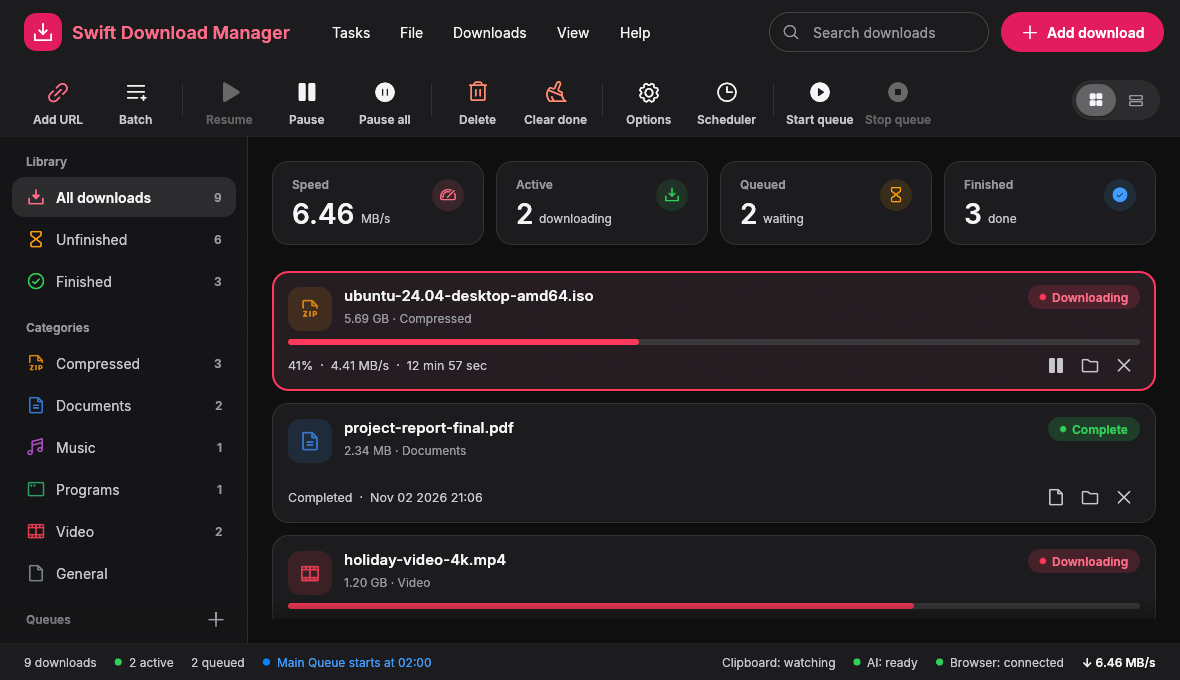
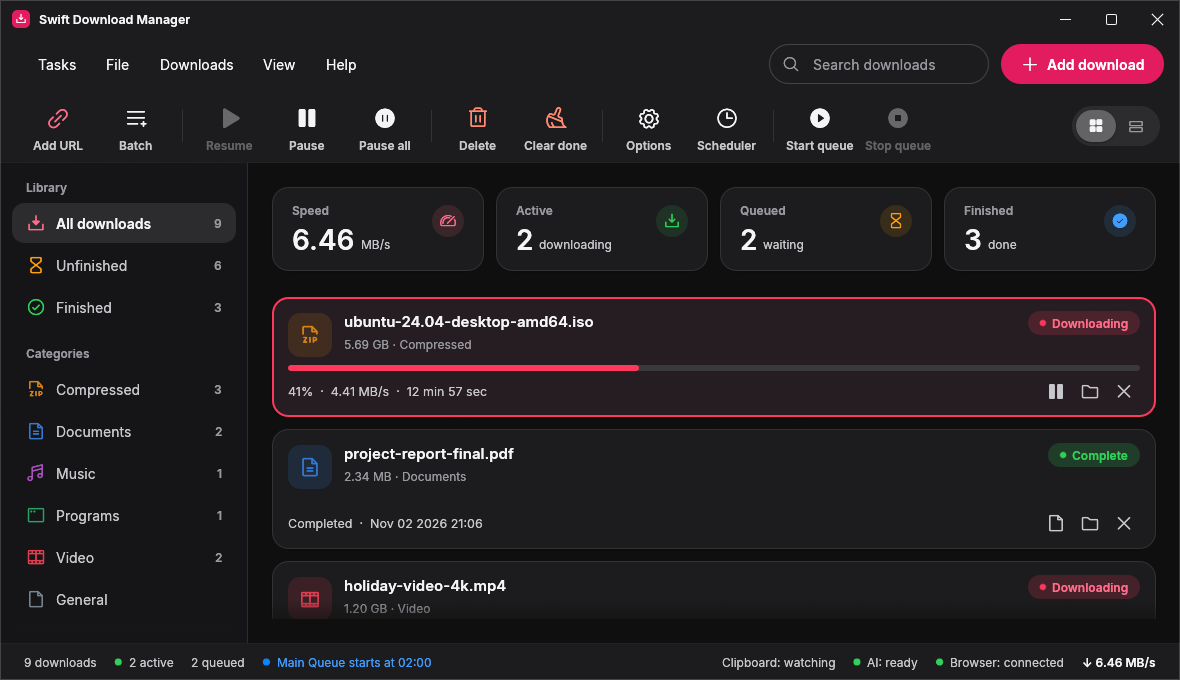
docs: themes, the title bar, the flow picture and the new add-on, with fresh screenshots
- README: new feature bullets, a Colour themes section with contact sheets of all 14 themes, new
  screenshots (the flow picture, the theme picker, Files and Carbon), the add-on pop-up, two FAQ
  entries and the new --color-theme and --show values.
- CHANGELOG: an Unreleased section for all of it.
- Every screenshot retaken with the new title bar.

diff --git a/README.md b/README.md
@@ -17,7 +17,7 @@ Split every file into up to 32 connections, pause and resume (even after a resta
 
 <picture>
   <source media="(prefers-color-scheme: dark)" srcset="docs/images/screenshot-dark.png">
-  <img src="docs/images/screenshot.png" alt="Swift Download Manager, a free download manager for Windows, Linux and macOS: a header with the menus and a search box, a toolbar, a sidebar with categories and queues, summary tiles for speed, active, queued and finished downloads, and a grid of download cards with progress bars, state chips and action buttons" width="900">
+  <img src="docs/images/screenshot.png" alt="Swift Download Manager, a free download manager for Windows, Linux and macOS: a title bar, a header with the menus and a search box, a toolbar, a sidebar with categories and queues, summary tiles for speed, active, queued and finished downloads, and a grid of download cards with progress bars, state chips and action buttons" width="900">
 </picture>
 
 <sub>The main window, light and dark (it follows your system), with the app's built-in sample data (<code>--demo</code> mode).</sub>
@@ -51,7 +51,10 @@ Browsers download each file over a single connection, so a fast line often sits 
 - **In a web browser and for a whole team**: a page on a localhost address, and a Docker image that serves several people from one machine
 - **Several networks at once**: tick Wi-Fi, Ethernet, a phone's hotspot and more under **Options → Networks** and every download uses all of them together, so the speeds add up
 - One consistent design, inspired by Airbnb and drawn with iOS-style controls: white surfaces on a soft grey page, one coral accent, 16 px rounded cards with soft shadows, capsule buttons, an iOS switch, stepper and segmented control, and line icons from [Phosphor](https://phosphoricons.com). Text is set in [Inter](https://rsms.me/inter/). Flat colours only, no gradients. Light and dark, following your system (or choose under **View → Appearance**)
-- Smooth animations: buttons fade and press, the sidebar highlight slides, progress bars glide, and windows fade in. The window stays idle when nothing moves
+- **14 colour themes** to choose from in **Options → Appearance**: Coral (the default), **Files** (a Windows 11 look with small corners and a blue accent), **Carbon** (sharp corners), Blue, Green, Black, Purple, Pink, Orange, Teal, Gold, Nord, Dracula and Mocha, each in light and dark. Automated tests check that text stays easy to read in every theme, and switching glides from one look to the next
+- **A title bar in the theme's colours**: the app draws its own minimise, maximise and close buttons instead of the system's grey bar, so the whole window matches. Drag it to move the window, double-click to maximise, resize from any edge (macOS keeps its traffic lights; `--native-title-bar` brings the system's bar back)
+- **See a download at work**: the parts of a file are drawn as channels that flow along smooth curves into one file, each at its own speed, and the file fills up as data arrives. Waiting is shown with a smooth loader or a sliding bar, never a frozen window
+- Smooth animations: buttons fade and press, the sidebar highlight slides, progress bars and the speed number glide, and dialogs fade and rise into place. The window stays idle when nothing moves
 
 **Runs in the background**
 - Close the window and **keep downloading**: an icon in the system tray (Windows notification area, macOS menu bar, Linux tray) shows what is going on, pauses and resumes everything, and opens the window again
@@ -77,7 +80,7 @@ Browsers download each file over a single connection, so a fast line often sits 
 - Catches downloads you start in the browser and hands them to the app
 - Passes your browser login (cookies) along, so downloads behind a login work
 - Adds **Download with Swift Download Manager** to the right-click menu
-- Spots videos and sounds that a page plays
+- Spots videos and sounds that a page plays, and offers them in a pop-up that has the look of the app (light and dark)
 
 What is finished and what is still planned (integrations with package managers, other tools and more) is in the [roadmap](#roadmap-and-feature-checklist).
 
@@ -96,7 +99,26 @@ What is finished and what is still planned (integrations with package managers, 
 <td><img src="docs/images/options-dark.png" alt="Options: download folder, connections per download, retries, speed limit and proxy"><br><sub><b>Options</b>: up to 32 connections per download, retries, speed limit and proxy.</sub></td>
 <td><img src="docs/images/networks-dark.png" alt="Options with the Networks card: Wi-Fi, Ethernet and a phone hotspot used together"><br><sub><b>Several networks at once</b>: use Wi-Fi, Ethernet and a phone hotspot together.</sub></td>
 </tr>
+<tr>
+<td><img src="docs/images/download-flow.png" alt="The progress window of a download: eight channels, one for each part of the file, flow along curves into one file that fills up, above the size, speed and time left"><br><sub><b>See it at work</b>: each part of the file is a channel that flows into the finished file at its own speed.</sub></td>
+<td><img src="docs/images/appearance-dark.png" alt="Options, Appearance: a grid of fourteen small pictures, one for each colour theme, with Files chosen"><br><sub><b>14 themes</b>: pick one by its picture under Options → Appearance.</sub></td>
+</tr>
+<tr>
+<td><img src="docs/images/theme-files-light.png" alt="The Files theme in light mode: a Windows 11 look with small corners, a blue accent and a title bar that blends into the window"><br><sub><b>Files</b>: small corners and a blue accent, inspired by the Files app for Windows 11.</sub></td>
+<td><img src="docs/images/theme-carbon-dark.png" alt="The Carbon theme in dark mode: square corners, near-black surfaces and a blue accent"><br><sub><b>Carbon</b>: square corners and a dark, technical look.</sub></td>
+</tr>
 </table>
+
+### Colour themes
+
+Fourteen themes, each in light and dark. Click a picture to see it full size.
+
+<a href="docs/images/themes-dark.png"><img src="docs/images/themes-dark.png" alt="The main window in all fourteen colour themes in dark mode: Coral, Files, Carbon, Blue, Green, Black, Purple, Pink, Orange, Teal, Gold, Nord, Dracula and Mocha" width="900"></a>
+
+<a href="docs/images/themes-light.png"><img src="docs/images/themes-light.png" alt="The main window in all fourteen colour themes in light mode" width="900"></a>
+
+Choose one under **Options → Appearance** or **View → Appearance → Theme**. To try one for a single run, start the program with
+`--color-theme files` (or `carbon`, `blue`, `green`, `black`, `purple`, `pink`, `orange`, `teal`, `gold`, `nord`, `dracula`, `mocha`, `coral`).
 
 ## Frequently asked questions
 
@@ -129,6 +151,12 @@ No. There is no telemetry, no analytics and no update check in the program. It o
 
 **Can an AI assistant use it?**
 Yes. Claude and other assistants that speak the Model Context Protocol (MCP) can list, add, pause, resume and remove downloads, but never delete files or choose folders. See [Use it from an AI assistant](#use-it-from-an-ai-assistant-mcp).
+
+**Can I change how it looks?**
+Yes. Under **Options → Appearance** you choose light, dark or automatic, and one of 14 colour themes (Coral, Files, Carbon, Blue, Green, Black, Purple, Pink, Orange, Teal, Gold, Nord, Dracula and Mocha). The choice is saved and applies at once, with a short glide from the old look to the new one. See [Colour themes](#colour-themes).
+
+**Why does the window have its own title bar? Can I get the system's back?**
+The app draws its own minimise, maximise and close buttons so that the title bar has the colours and corners of the theme you picked. Dragging, double-click to maximise and resizing from the edges work as usual. If you prefer the system's bar (or your desktop handles frameless windows badly), start the program with `--native-title-bar`.
 
 **Where do I report a bug or ask for a feature?**
 Open an [issue](https://github.com/Namitjain07/Swift-Download-Manager/issues/new/choose). Pull requests are welcome; see the [contributing guide](CONTRIBUTING.md).
@@ -310,6 +338,10 @@ Every release also lists a `SHA256SUMS` file so you can check what you downloade
 
 The app has to be running for downloads to go to it; otherwise the browser downloads as usual.
 
+<p align="center"><img src="docs/images/extension-popup.png" alt="The browser add-on's pop-up in light and dark: a Connected to the app badge, a switch to send browser downloads to the app, and the videos and sounds found on the page with a Download button each; on the right the empty state, with channels flowing into one file" width="900"></p>
+
+<p align="center"><sub>The add-on's pop-up has the look of the app and follows the browser's light or dark setting.</sub></p>
+
 - **Chrome, Edge, Brave, Opera:** unzip the file into a folder you keep, open `chrome://extensions` (Edge: `edge://extensions`),
   turn on **Developer mode**, click **Load unpacked** and choose the folder.
 - **Firefox:** to try it now, open `about:debugging`, click **This Firefox**, then **Load Temporary Add-on…** and choose the `.xpi`.
@@ -364,7 +396,8 @@ The app can draw itself with sample data and save a picture of its window, which
 cd source
 cargo run --release -- --screenshot ../docs/images/screenshot.png --theme light
 cargo run --release -- --screenshot ../docs/images/screenshot-dark.png --theme dark
-# a window other than the main one: --show add|batch|options|networks|scheduler|queues|properties|progress|delete|about|browser|ai|grabber|close|table|drawer|menus
+# a window other than the main one: --show add|batch|options|networks|appearance|scheduler|queues|properties|progress|delete|about|browser|ai|grabber|close|table|drawer|menus|empty
+# a colour theme: --color-theme files|carbon|blue|green|black|purple|pink|orange|teal|gold|nord|dracula|mocha|coral
 # a narrower window: --size 900x640   (or 600x760)
 cargo run --release -- --screenshot /tmp/scheduler.png --theme dark --show scheduler
 ```

diff --git a/CHANGELOG.md b/CHANGELOG.md
@@ -3,6 +3,41 @@
 All notable changes to Swift Download Manager are listed here, newest first.
 The format follows [Keep a Changelog](https://keepachangelog.com/en/1.1.0/).
 
+## [Unreleased]
+
+### Colour themes
+- **14 themes**, each in light and dark: Coral (the default, the look of 1.7.0), **Files** (after the Files app for Windows 11: 4 px corners, 32 px
+  controls, a blue accent and a small accent bar beside the chosen sidebar row), **Carbon** (square corners), Blue, Green, Black, Purple, Pink, Orange,
+  Teal, Gold, Nord, Dracula and Mocha. Choose one under Options > Appearance (a picture for each) or View > Appearance > Theme; it is saved
+- Three shapes sit behind them: capsule buttons (Coral and the plain colours), Fluent (Files) and Sharp (Carbon). Every widget takes its sizes, corners
+  and colours from the theme in use, so nothing is hard-coded to one look
+- The tests check that text keeps at least 4.5:1 contrast on the surfaces it is drawn on, in every theme, light and dark (button text too; the one
+  exception is the held-down state of a Coral button in dark mode, which keeps 3:1)
+- Changing the theme glides from the old look to the new one in about a third of a second (colours and sizes)
+- `--color-theme NAME` starts the program in one theme for a run; `--show appearance` opens Options at the Appearance card; `--show empty` shows the
+  window with no downloads
+
+### A title bar that matches
+- The system's title bar is replaced (Windows and Linux) by the app's own, in the colours and corners of the theme: the name of the app on the left,
+  minimise, maximise or restore, and close on the right (close turns red under the pointer). Drag it to move the window, double-click to maximise,
+  and resize from any edge or corner. macOS keeps its traffic lights over the same bar
+- `--native-title-bar` keeps the system's bar on any system. The header below no longer repeats the name of the app
+
+### Seeing a download
+- **The flow picture**: the parts of a file are channels that run along smooth curves into one file; small packets travel at each part's own speed, the
+  file fills from the bottom as data arrives, finished parts turn green, and a tick shows when it is done. It is at the top of a download's progress
+  window and, quietly, in the empty state
+- **Loaders**: an arc loader replaces the small spinner while the link grabber reads pages and while a checksum is checked, and a sliding bar shows a
+  connection being made or a file whose size the server does not tell
+- **Motion**: dialogs fade and rise into place over 200 ms (they used to fade in 80 ms), and the speed number in the summary tiles glides to each
+  new value
+
+### Browser add-on 1.5.0
+- A new pop-up in the look of the app: a *Connected* badge that follows the app being opened or closed, an iOS-style switch, a card for each video or
+  sound found on the page (newest first, with its type and size) and a *Download* button that shows *Sending…*, *Sent ✓* or *App not running* (and can be pressed again). Light and dark
+  follow the browser; the empty state shows channels flowing into one file; motion stops if the system asks for less
+- New flat icons (coral, with a white download arrow) and a coral badge. A file name with a stray `%` no longer stops the list from being shown
+
 ## [1.7.0] - 2026-11-06
 
 **A stable release.** It brings together everything that was tried in the pre-releases since 1.4.0: 1.5.0-beta.1 (download over several networks at once) and 1.6.0-beta.1 (the web page, `--server` mode and the Docker image), in a redesigned window. The Docker image is published as `:latest` and `:1.7.0`.
